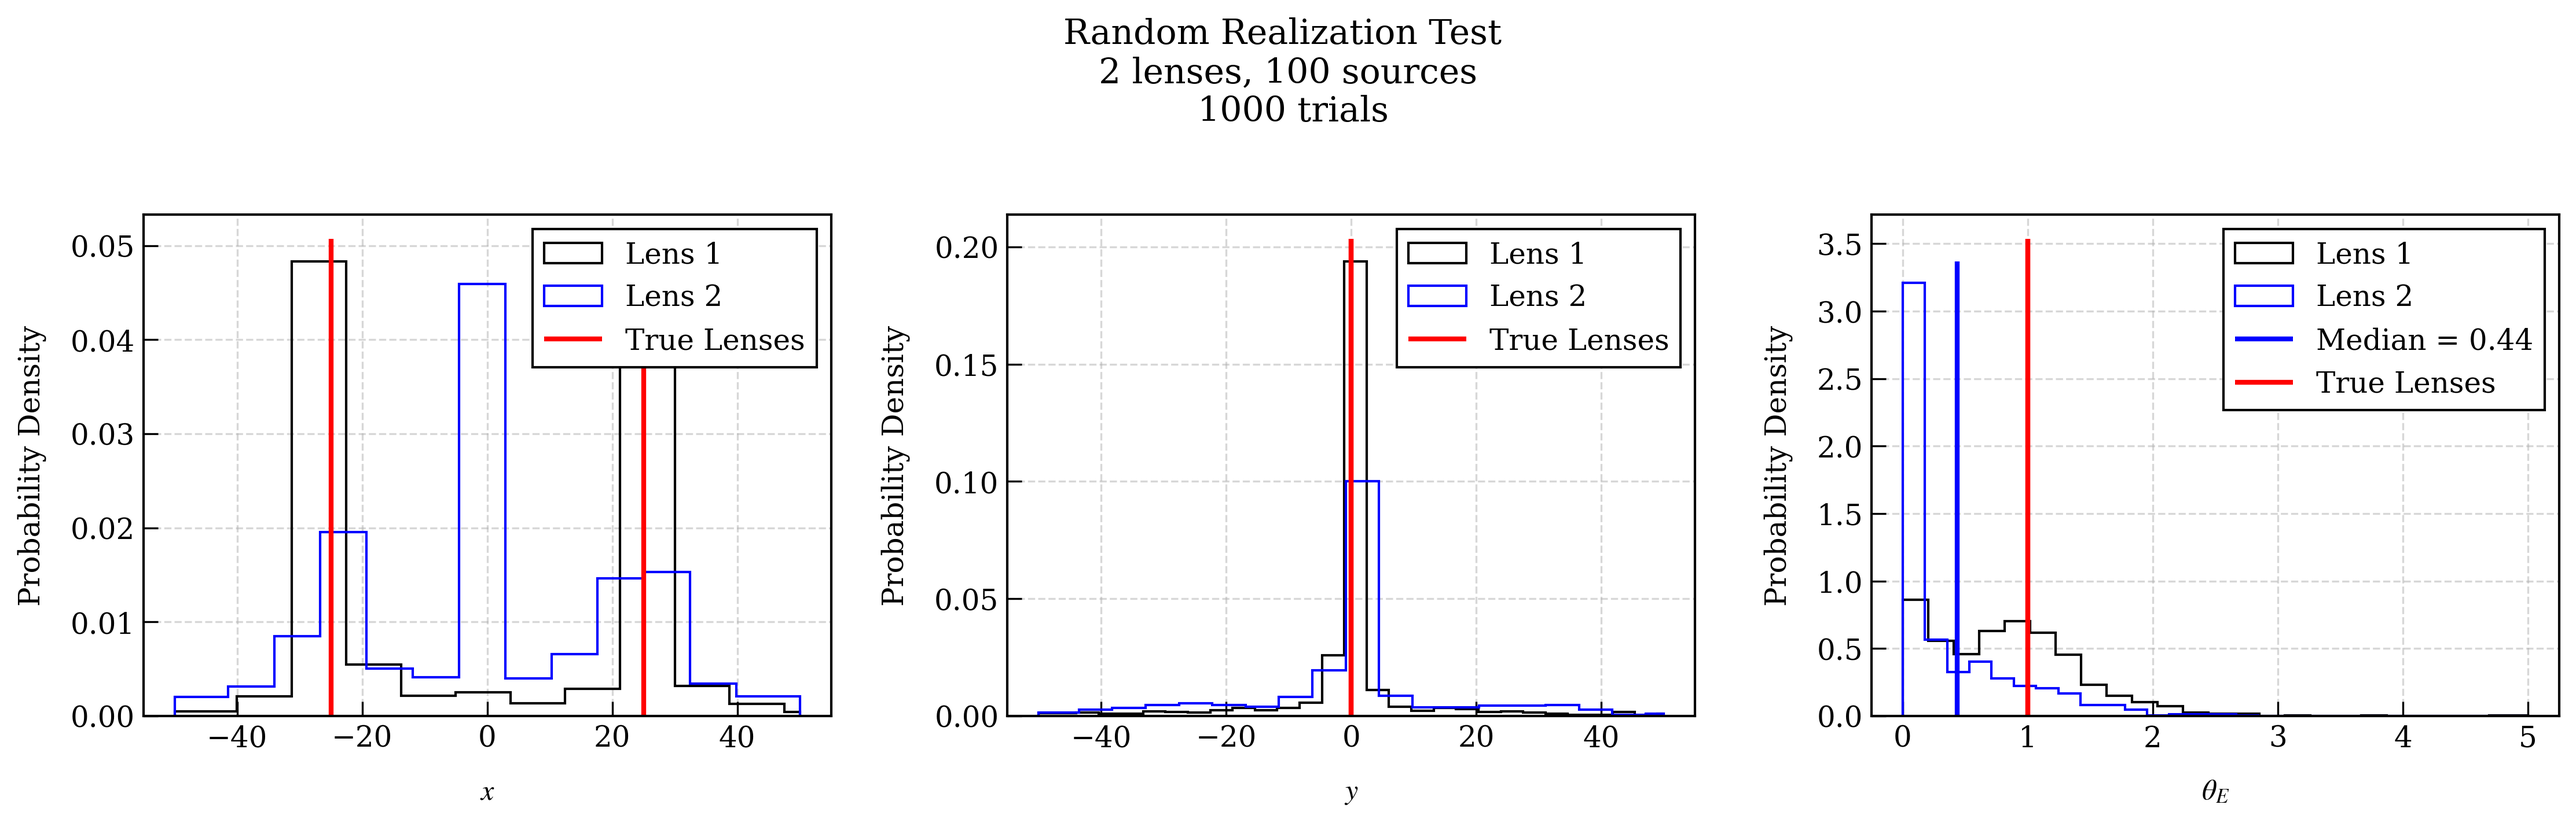
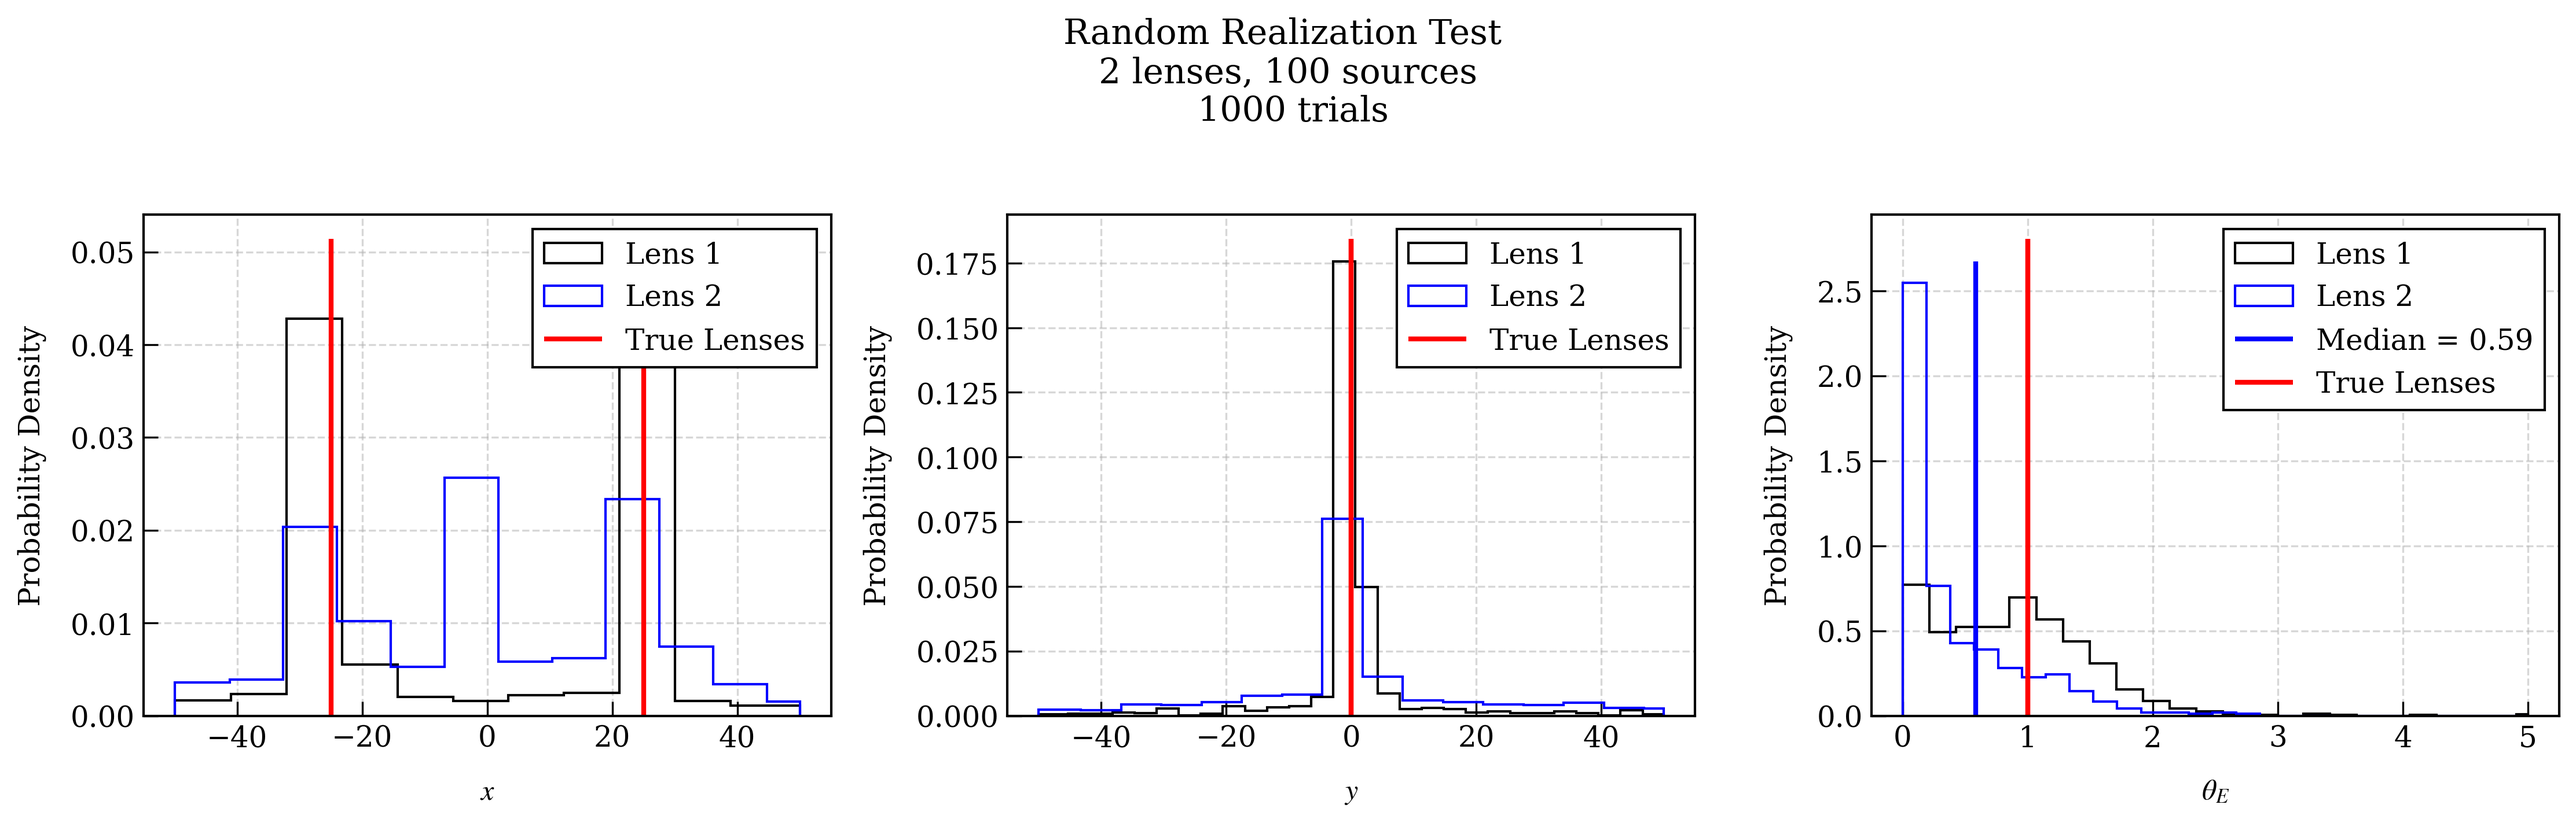
Random realization, nl = 2 run

diff --git a/test_pipeline.py b/test_pipeline.py
@@ -236,7 +236,7 @@ if __name__ == '__main__':
 
     # Generate random realizations
     Ntrials = 1000
-    Nlens = [1, 2]
+    Nlens = [2]
     Nsource = 100
     xmax = 50
 
@@ -245,9 +245,6 @@ if __name__ == '__main__':
         plot_random_realizations(xsol, ysol, er, true_lenses, Nlens=nlens, Nsource=Nsource, Ntrials=Ntrials, xmax=xmax, distinguish_lenses=True)
     
     Nlens = [1, 2]
-    Nsource = 100
-    Ntrials = 100
-    xmax = 50
     # Assess number of lenses recovered
     # Use the same constants as above
     for nlens in Nlens:
